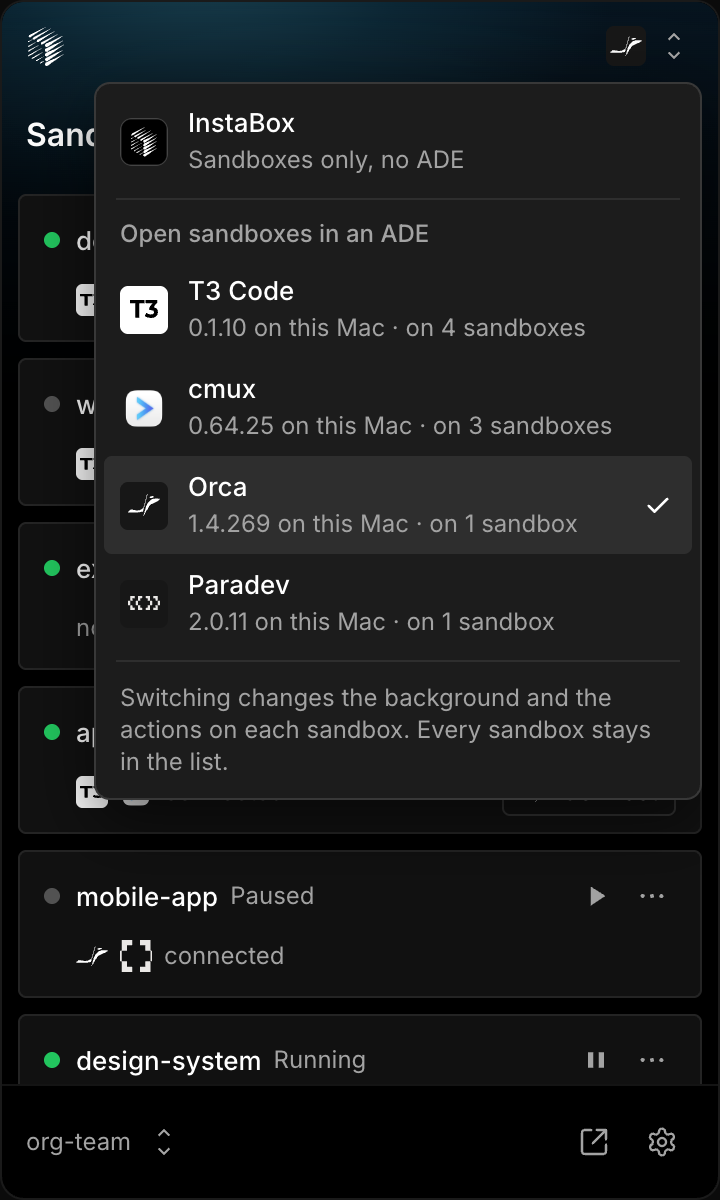
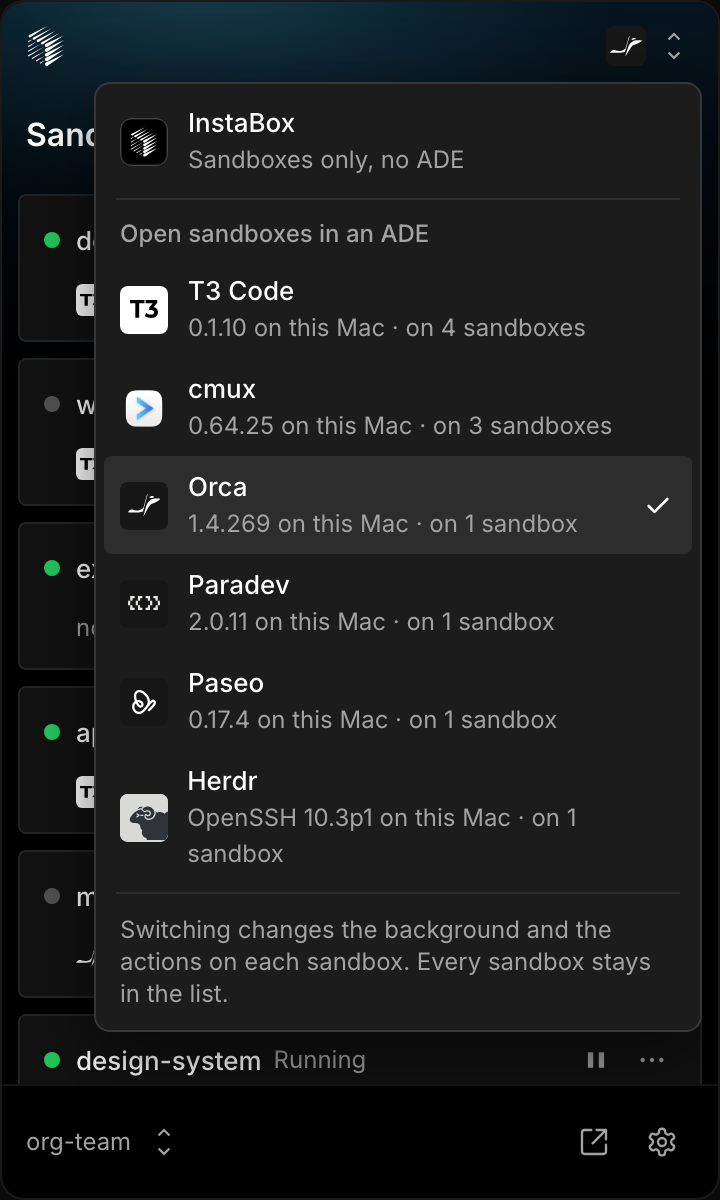
Bring the README up to date with 0.1.10 (#45)
## What

The README still showed four ADEs in its screenshots and missed three changes in the app. This brings it up to date with 0.1.10.

- `docs/images/switcher.png` and `docs/images/details.png`: retaken, so the switcher lists T3 Code, cmux, Orca, Paradev, Paseo and Herdr, and the details offer Orca, Paradev, Paseo and Herdr to add. Their alt text names all of them.
- Getting Started, step 5: InstaADE starts in T3 Code until you pick an ADE, when T3 Code is on this computer or one of your sandboxes has T3 (`defaultMode` in `src/mode.ts`). It said "if you used T3 Code with InstaADE before".
- Getting Started, step 7, and Supported ADEs, Paseo: on Windows, InstaADE does not copy Paseo's address, it shows it in its message (`src-tauri/src/clipboard.rs`, as `docs/ades.md` already says).
- Features: when you are signed out, the sign-in page offers **Update** (`src/Setup.tsx`, as `DEVELOPMENT.md` already says).

## How

The screenshots are taken like the earlier ones: from the browser preview (`bun run dev`) of `main` at 0.1.10, with its sample data only, in the Pro sample workspace. The switcher is in Orca mode, and the details are of `api-server`, with T3 Code and cmux connected. Each image is the popover alone, 720 by 1200 pixels (360 by 600 at 2x). `list.png` and `menu.png` show no ADE list, so they stay.

## Verify

- `bun run typecheck`: passes.
[…]

Changed region(s): [[0.1222, 0.555, 0.9778, 0.8942], [0.1833, 0.0925, 0.2139, 0.1233], [0.0611, 0.0308, 0.0917, 0.0617]]

diff --git a/README.md b/README.md
@@ -16,9 +16,9 @@
 
 <p align="center">
   <img src="docs/images/list.png" alt="Sandbox list in cmux mode" width="200">
-  <img src="docs/images/switcher.png" alt="ADE switcher with T3 Code, cmux, Orca and Paradev" width="200">
+  <img src="docs/images/switcher.png" alt="ADE switcher with T3 Code, cmux, Orca, Paradev, Paseo and Herdr" width="200">
   <img src="docs/images/menu.png" alt="Sandbox actions in Paradev mode" width="200">
-  <img src="docs/images/details.png" alt="Sandbox details with T3 Code and cmux connected, and Orca and Paradev to add" width="200">
+  <img src="docs/images/details.png" alt="Sandbox details with T3 Code and cmux connected, and Orca, Paradev, Paseo and Herdr to add" width="200">
 </p>
 
 ## Getting Started
@@ -34,9 +34,9 @@ You need macOS or Windows (x64) and an [instabox](https://instabox.sh) account. 
    - InstaADE was called Instabox before. On macOS, InstaADE asks a running Instabox to quit, or asks you to quit it when it does not, and offers to move it to the Trash. On Windows, the installer removes Instabox first. Your sign-in, your data and Start at login stay.
 3. Click the InstaADE icon in the menu bar (macOS) or the system tray (Windows; at first it may be under the **^** arrow). If you cannot find it, see [Troubleshooting](#troubleshooting).
 4. Sign in with GitHub or Google.
-5. To open sandboxes in an ADE, pick T3 Code, cmux, Orca, Paradev, Paseo or Herdr in the menu at the top (**InstaBox** keeps to sandboxes only). If you used T3 Code with InstaADE before, it starts in T3 Code.
+5. To open sandboxes in an ADE, pick T3 Code, cmux, Orca, Paradev, Paseo or Herdr in the menu at the top (**InstaBox** keeps to sandboxes only). Until you pick one, InstaADE starts in T3 Code when T3 Code is on this computer or one of your sandboxes has T3.
 6. Click **New sandbox**, pick a size, then click **Create sandbox**.
-7. Confirm the new environment in T3 Code, or the workspace in cmux. In Orca, connect the host InstaADE names under **Settings**, **SSH Hosts**, and click **Import** there first if it is not listed. In Paradev, click **Set up a host over SSH**, paste the SSH address InstaADE copied, then click **Install Paradev** again. In Paseo, finish or skip its setup if it shows one, then add the address InstaADE copied once, under **Settings**, **Switch host**, **Add host**, **Remote SSH**. Herdr opens in your terminal with nothing to confirm.
+7. Confirm the new environment in T3 Code, or the workspace in cmux. In Orca, connect the host InstaADE names under **Settings**, **SSH Hosts**, and click **Import** there first if it is not listed. In Paradev, click **Set up a host over SSH**, paste the SSH address InstaADE copied, then click **Install Paradev** again. In Paseo, finish or skip its setup if it shows one, then add the sandbox's address once, under **Settings**, **Switch host**, **Add host**, **Remote SSH**. On macOS, InstaADE copies the address. On Windows, it shows the address in its message. Herdr opens in your terminal with nothing to confirm.
 
 ## Features
 
@@ -49,7 +49,7 @@ You need macOS or Windows (x64) and an [instabox](https://instabox.sh) account. 
 - Copy the SSH command or open it in a terminal
 - Sign in to Claude Code or Codex on the sandbox
 - Starts at login (turn it off in Settings)
-- Updates itself when you click **Update** in Settings. A dot on the Settings button means a new version is out
+- Updates itself when you click **Update** in Settings. A dot on the Settings button means a new version is out. When you are signed out, the sign-in page offers **Update** under the sign-in buttons
 
 ## Supported ADEs
 
@@ -68,7 +68,7 @@ Is your favorite ADE missing? Add it, or ask for it in an issue. See [CONTRIBUTI
 - **cmux**: You need the cmux app in Applications. **Install cmux** and **Open in cmux** open the sandbox in cmux, which connects to it over SSH. InstaADE installs nothing on the sandbox for cmux.
 - **Orca**: You need the Orca app, in Applications on macOS. **Install Orca** and **Open in Orca** wake the sandbox, add it as an SSH host and start Orca. Then, in Orca, open **Settings**, then **SSH Hosts**, connect the host InstaADE names, and open `/data/home`. Orca imports hosts only when it starts, so when it was already running, click **Import** there first.
 - **Paradev**: You need the Paradev app in Applications, not its Canary build. **Install Paradev** wakes the sandbox, puts its SSH address on the clipboard for one minute, and opens Paradev's host settings. In Paradev, click **Set up a host over SSH** and paste the address, then click **Install Paradev** in InstaADE again to open a workspace on the sandbox.
-- **Paseo**: You need the Paseo app, in Applications on macOS. **Install Paseo** installs the Paseo daemon on the sandbox. **Install Paseo** and **Open in Paseo** wake the sandbox, add it as an SSH host, copy its address (`ssh://instabox-<name>`) and start Paseo. Add the address in Paseo once, under **Settings**, **Switch host**, **Add host**, **Remote SSH**. The first time, Paseo shows its setup before its window: finish or skip it.
+- **Paseo**: You need the Paseo app, in Applications on macOS. **Install Paseo** installs the Paseo daemon on the sandbox. **Install Paseo** and **Open in Paseo** wake the sandbox, add it as an SSH host, copy its address (`ssh://instabox-<name>`) and start Paseo. On Windows, InstaADE does not copy the address: it shows it in its message. Add the address in Paseo once, under **Settings**, **Switch host**, **Add host**, **Remote SSH**. The first time, Paseo shows its setup before its window: finish or skip it.
 - **Herdr**: You need no Herdr app, only the OpenSSH client, which macOS has and recent Windows 10 and Windows 11 install by default. **Install Herdr** installs Herdr on the sandbox, then opens your terminal with an SSH session that runs Herdr there. **Open in Herdr** wakes the sandbox and does the same. Closing the terminal leaves Herdr and its agents running on the sandbox, and the next **Open in Herdr** attaches to them again.
 
 **Your SSH config**: InstaADE changes it only for Orca and Paseo. It adds one line at the top of `~/.ssh/config`, `Include ~/.ssh/instabox/config`, and copies the file to `~/.ssh/config.instabox.bak` before its first change. It keeps their hosts in `~/.ssh/instabox/config`. That file holds SSH tokens, and on macOS only you can read it.
